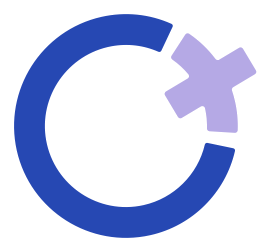
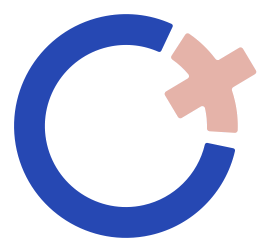
Mostra a marca colorida (não só branca) no chrome do topo e no login
Até aqui o logo no Navbar/login/cabeçalho do portal virava silhueta
branca sólida (filter: brightness(0) invert(1)), apagando o acento
coral que acabamos de levar pra identidade. Gera variantes brancas
preservando só o acento coral (recolore por matiz+saturação: tudo que
não é coral vira branco) e troca os 3 usos de chrome-invert por essas
variantes. Remove a classe chrome-invert, que ficou sem uso.

Também recolore clubemais-icone.png (ícone só, sem wordmark, usado no
cabeçalho do portal do aluno) — tinha ficado de fora da leva anterior
de recolorização dos ícones do PWA.

Changed region(s): [[0.5904, 0.1111, 0.9446, 0.5278]]

diff --git a/frontend/components/Navbar.tsx b/frontend/components/Navbar.tsx
@@ -91,12 +91,12 @@ export default function Navbar() {
           </button>
           <Link href="/dashboard" className="flex flex-1 items-center justify-center gap-2.5 sm:flex-initial sm:justify-start">
             <Image
-              src="/clubemais-logo.png"
+              src="/clubemais-logo-white.png"
               alt="Clube Mais"
               width={140}
               height={39}
               priority
-              className="chrome-invert h-7 w-auto"
+              className="h-7 w-auto"
             />
             <span className="hidden items-center border-l border-white/25 pl-2.5 text-xs font-semibold uppercase tracking-[0.18em] text-white/80 sm:flex">
               Personal

diff --git a/frontend/app/login/page.tsx b/frontend/app/login/page.tsx
@@ -37,12 +37,12 @@ export default function LoginPage() {
       <div className="w-full max-w-sm">
         <div className="mb-8 flex flex-col items-center text-center">
           <Image
-            src="/clubemais-logo.png"
+            src="/clubemais-logo-white.png"
             alt="Clube Mais"
             width={240}
             height={67}
             priority
-            className="chrome-invert h-16 w-auto"
+            className="h-16 w-auto"
           />
           <span className="mt-3 rounded-full bg-white/15 px-3 py-1 text-xs font-semibold uppercase tracking-[0.2em] text-white">
             Personal

diff --git a/frontend/app/aluno/[token]/PortalAlunoClient.tsx b/frontend/app/aluno/[token]/PortalAlunoClient.tsx
@@ -812,11 +812,11 @@ export default function PortalAlunoClient({ token }: { token: string }) {
             <p className="font-display truncate font-bold text-white">{data.workout ? data.workout.name : 'Seu espaço de treino'}</p>
           </div>
           <Image
-            src="/clubemais-icone.png"
+            src="/clubemais-icone-white.png"
             alt="Clube Mais"
             width={36}
             height={36}
-            className="chrome-invert h-9 w-9 shrink-0"
+            className="h-9 w-9 shrink-0"
           />
         </div>
       </header>

diff --git a/frontend/app/globals.css b/frontend/app/globals.css
@@ -111,13 +111,6 @@ body {
   color: #ffffff;
 }
 
-/* Vira a logo colorida numa silhueta branca sólida — usada em qualquer fundo
-   escuro/gradiente da marca (chrome do topo, hero do login), não só dentro
-   de um contêiner específico. */
-.chrome-invert {
-  filter: brightness(0) invert(1);
-}
-
 /* Hero de tela — usado atrás do título de página nas telas principais.
    Mesmo gradiente do chrome, só que como bloco de conteúdo (não faixa fixa). */
 .hero-panel {
